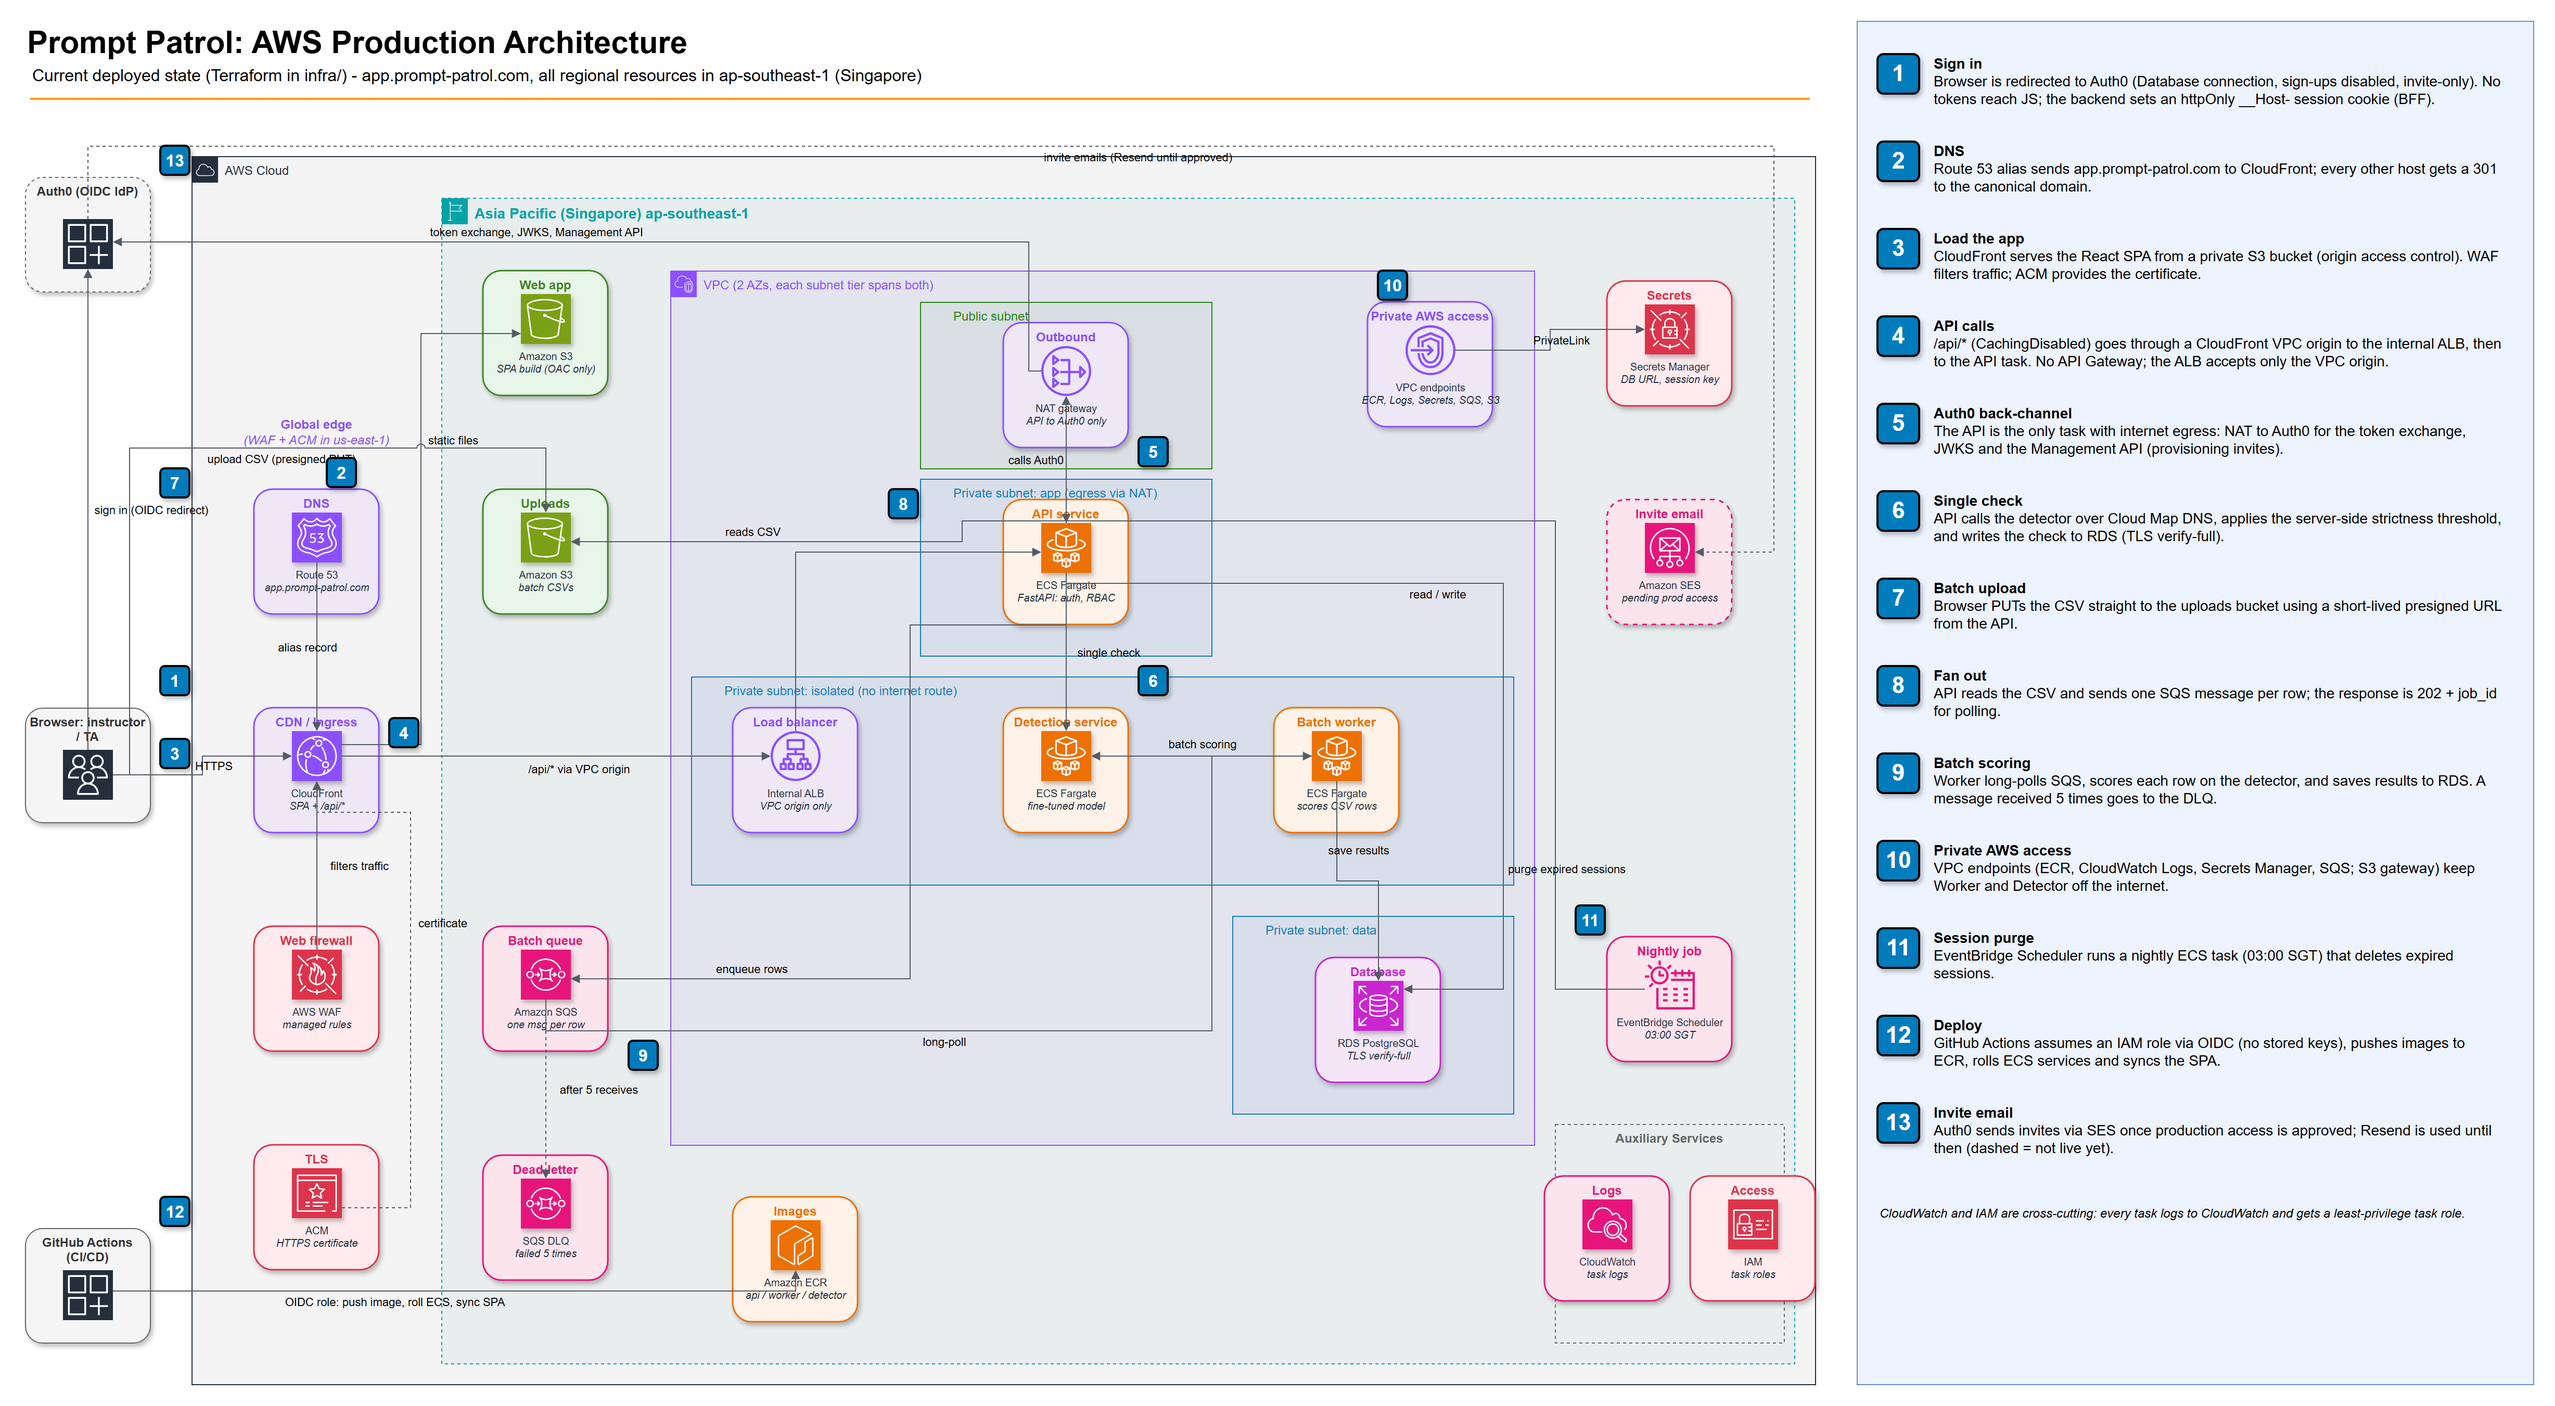
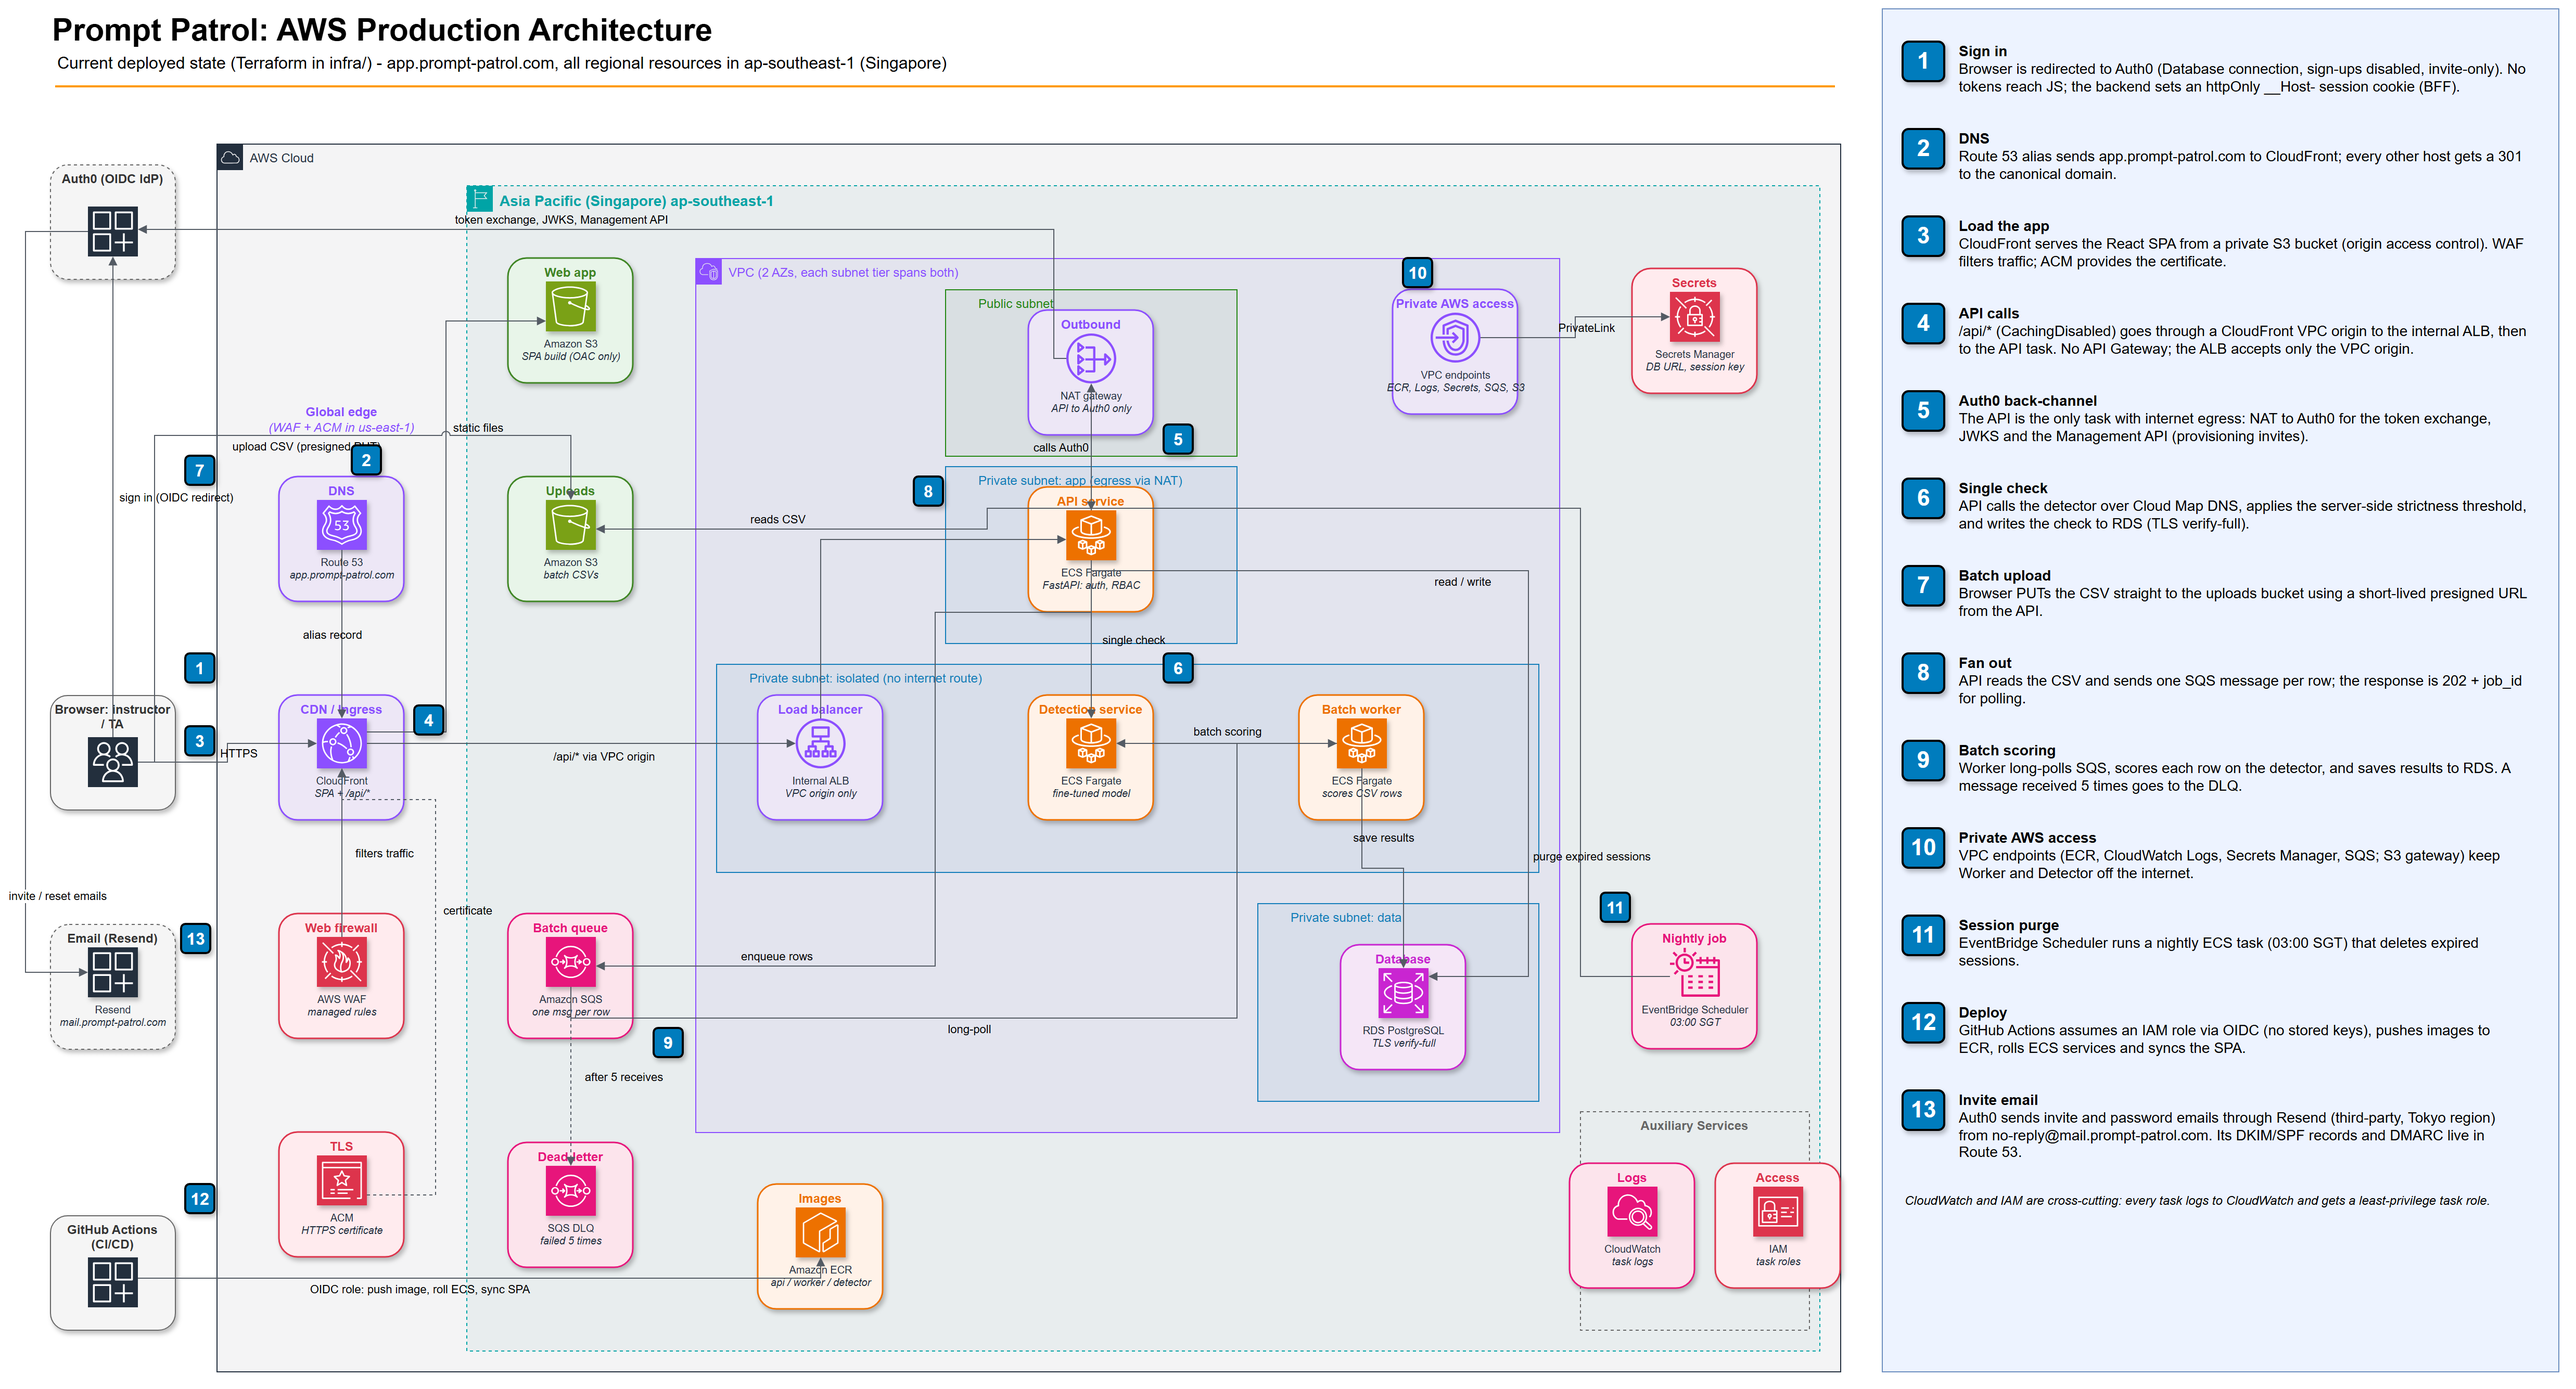
docs: updated architecture diagram to remove ses for email sending

diff --git a/README.md b/README.md
@@ -69,6 +69,7 @@ Production runs at <https://app.prompt-patrol.com>, with every regional resource
 - **Compute.** The api, worker and detector run as separate ECS Fargate services in private subnets. The api reaches the detector over Cloud Map DNS, and the worker long-polls SQS (with a DLQ) for batch rows.
 - **Egress.** Only the api task can reach the internet, through a NAT gateway, and only for the Auth0 token exchange, JWKS and Management API. Everything else uses VPC endpoints, so the worker and detector have no internet route.
 - **Data.** Checks and batches are stored in RDS PostgreSQL over TLS `verify-full`, uploaded CSVs in S3, and secrets in Secrets Manager.
+- **Email.** Auth0 sends invite and password emails through Resend (a third-party service, Tokyo region) from `no-reply@mail.prompt-patrol.com`. Only its DKIM/SPF and DMARC records live in AWS, in Route 53.
 - **Delivery.** GitHub Actions assumes a deploy role via OIDC (no stored keys), pushes images to ECR, rolls the ECS services and syncs the SPA.
 
 The diagram source is [`docs/assets/prompt-patrol-aws-architecture.drawio`](docs/assets/prompt-patrol-aws-architecture.drawio). Edit it in draw.io and re-export the PNG when the infrastructure changes. [`infra/README.md`](infra/README.md) covers how each piece is provisioned.
